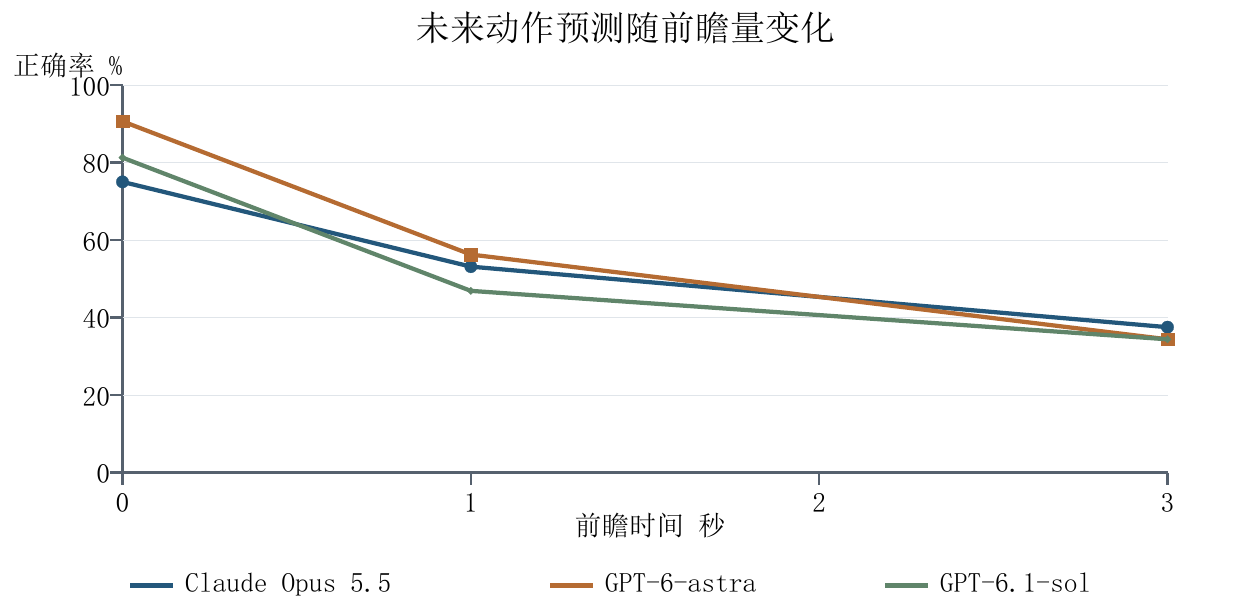
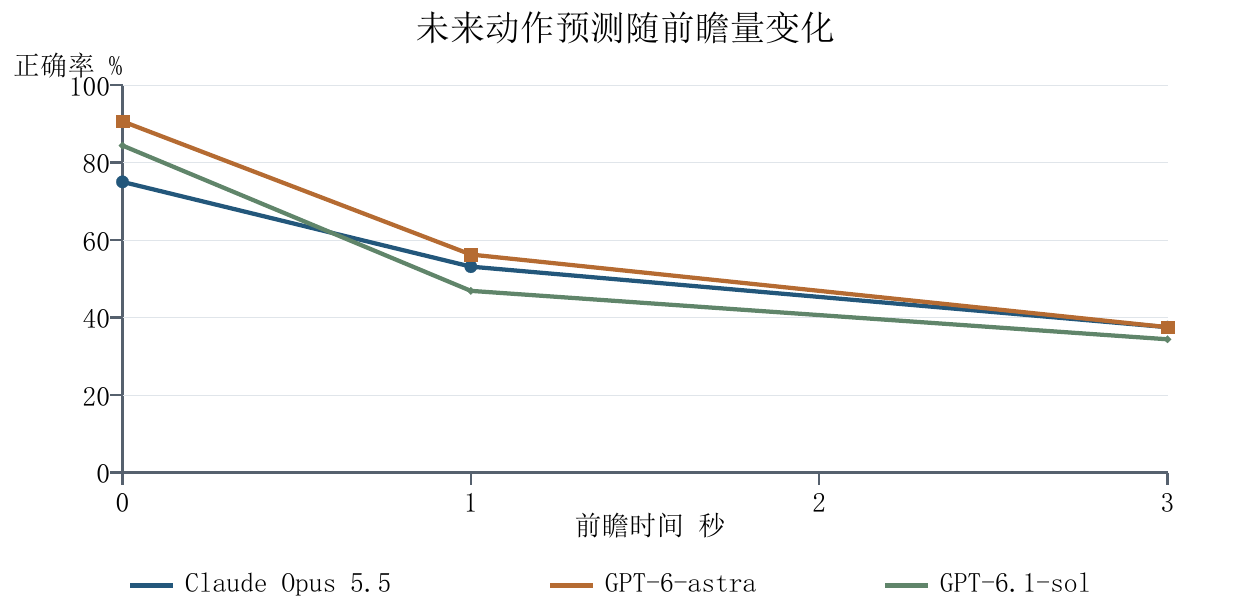
Fill the GPT interface-failure gaps in the main results
On 2026-10-20 the 290 GPT samples that failed with interface errors on
2026-10-18 were re-requested once each under a protocol frozen before the
first request; the 27 that were refused again with HTTP 429 were filled in a
second round. The seven-model table now shows the after-rerun numbers marked
with a dagger, with the 2026-10-18 numbers in a footnote and the caveats
below it. The forecast-horizon table and chart are redrawn, and the semantic
re-score is labelled as based on the 2026-10-18 answers.

Changed region(s): [[0.4056, 0.4016, 0.9672, 0.5561], [0.0936, 0.2163, 0.2496, 0.3707], [0.2496, 0.3707, 0.3744, 0.4634]]

diff --git a/docs/experiments.md b/docs/experiments.md
@@ -1,8 +1,8 @@
 # Satori 复现与模型评测实验简报
 
-日期：2026年10月18日（10月20日补充输入说明、问答示例和语义重评分）
+日期：2026年10月18日（10月20日补充输入说明、问答示例和语义重评分，并补跑了三个 GPT 模型因接口错误缺失的题）
 
-本阶段围绕“理解用户所处环境、正在做什么、下一步可能做什么”开展实验。已搭建 Satori 方法原型并接入 Unity，完成七个模型在公开第一视角数据上的对比。当前结果是：**高层任务目标识别效果较好，未来动作预测还有明显下降；任务问答按意思评分最高约37%，涉及多人互动和反事实推理的问题仍然很弱。**
+本阶段围绕“理解用户所处环境、正在做什么、下一步可能做什么”开展实验。已搭建 Satori 方法原型并接入 Unity，完成七个模型在公开第一视角数据上的对比。当前结果是：**高层任务目标识别效果较好，未来动作预测还有明显下降；在已做语义重评分的五个模型中，任务问答按意思评分最高约37%，涉及多人互动和反事实推理的问题仍然很弱。**
 
 ## 1. 跑了哪些实验
 
@@ -22,35 +22,53 @@
 
 | 模型 | 目标识别，28题 | 动作预测，96题 | 任务问答，200题（字面匹配） |
 |---|---:|---:|---:|
-| Claude Opus 5.5 | **89.29%（25/28）** | 55.21%（53/96） | **22.50%（45/200）** |
-| GPT-6-astra | 67.86%（19/28） | **60.42%（58/96）** | 19.50%（39/200） |
-| GPT-6.1-sol | **89.29%（25/28）** | 54.17%（52/96） | 17.50%（35/200） |
-| GPT-5.6-sol | 67.86%（19/28） | 13.54%（13/96）* | 全部接口失败，无法评价 |
+| Claude Opus 5.5 | 89.29%（25/28） | 55.21%（53/96） | 22.50%（45/200） |
+| GPT-6-astra | **92.86%（26/28）**† | **61.46%（59/96）**† | 19.50%（39/200）† |
+| GPT-6.1-sol | 89.29%（25/28） | 55.21%（53/96）† | 21.00%（42/200）† |
+| GPT-5.6-sol | 78.57%（22/28）† | 33.33%（32/96）† | **26.00%（52/200）**† |
 | Mage-VL | 53.57%（15/28） | 6.25%（6/96） | 2.00%（4/200） |
 | VideoChat3-4B | 32.14%（9/28） | 5.21%（5/96） | 4.00%（8/200） |
 | Dispider | 未获得合格输出 | 未获得合格输出 | 未获得合格输出 |
 
-*GPT-5.6-sol动作预测中有53次调用失败，问答200题全部接口失败，其低分不能直接解释为模型能力弱。Dispider的输出未满足本轮评分格式要求，不能解释为视觉能力为零。Mage-VL和VideoChat3-4B也受到接口或输出格式问题影响。*
+*†含10月20日补跑的缺失题。补跑前（10月18日）的成绩：*
 
-模型名称按简称展示。实际主实验中 Claude 使用 high，GPT 未显式指定推理档位；因此这里比较的是各模型在当前接入配置下的表现，未完全控制内部推理预算。GPT 和 Claude 都经第三方接口或通道调用，模型名沿用其别名，底层权重未独立核验。部分 GPT 结果因限流分批续跑，只补跑从未尝试过的题目，已尝试的结果原样保留。Claude 的原始采集脚本把同一轮回复中的思考和正文分段误判为不合格，标为失败的有309条（目标识别15条、动作预测95条、问答199条）；表中 Claude 结果是对保存的原始返回统一重新解析得到的，拼接后的最终文本须与原始最终结果逐字一致，没有新增模型请求，也没有修改答案。
+- *GPT-6-astra：67.86%（19/28）、60.42%（58/96）、19.50%（39/200）；*
+- *GPT-6.1-sol：54.17%（52/96）、17.50%（35/200），目标识别没有缺题；*
+- *GPT-5.6-sol：67.86%（19/28）、13.54%（13/96），问答200题全部接口失败。*
+
+*Dispider 的输出未满足本轮评分格式要求，不能解释为视觉能力为零。Mage-VL 和 VideoChat3-4B 也受到接口或输出格式问题影响。*
+
+**10月20日补跑。** 10月18日这三个 GPT 模型共有290题因接口错误（HTTP 429、502、503 和连接失败）没有拿到回答，当时按错误计。10月20日网关恢复后，按事先冻结的协议，把这些题用与原来完全相同的请求重新问了一遍，一次只发一个请求。第一轮有27题再次被网关以并发超限拒绝，第二轮补齐。现在这三个模型的每一格都没有失败题；290题中有3题是模型弃答，按错误计。
+
+使用这些数字时需要注意：
+
+- 补跑比原始请求晚两天，第三方别名背后的模型可能已经变化。成功的题没有重跑，所以带†的格子混合了两个时间点的回答；GPT-5.6-sol 问答的200题则全部是10月20日的回答。
+- 补跑的题不是随机抽的，失败集中在网关拥堵的时段。例如 GPT-6-astra 目标识别补回的7题全部答对，GPT-5.6-sol 问答第二轮补的18题全是是非题。
+- GPT-5.6-sol 问答的26.00%比 Claude 的22.50%只多7题。两者的采集时间和推理档位都不同，补跑的新答案也没有做语义重评分（Claude 的语义分是36.50%），所以不宜据此排序。
+
+补跑的完整记录（逐题请求记录、首次请求前冻结的协议和核对结果）保存在本地实验工程中；其中含数据集题目原文，按本仓库不分发数据集的约定未上传。
+
+模型名称按简称展示。实际主实验中 Claude 使用 high，GPT 未显式指定推理档位；因此这里比较的是各模型在当前接入配置下的表现，未完全控制内部推理预算。GPT 和 Claude 都经第三方接口或通道调用，模型名沿用其别名，底层权重未独立核验。10月18日部分 GPT 结果因限流分批续跑，当时只续跑从未尝试过的题目；仍因接口错误失败的题在10月20日补跑（见上文）。Claude 的原始采集脚本把同一轮回复中的思考和正文分段误判为不合格，标为失败的有309条（目标识别15条、动作预测95条、问答199条）；表中 Claude 结果是对保存的原始返回统一重新解析得到的，拼接后的最终文本须与原始最终结果逐字一致，没有新增模型请求，也没有修改答案。
 
 ## 3. 效果说明
 
-**任务目标识别较好。** Claude和GPT-6.1-sol均答对25/28个视频，达到89.29%。不过这里使用了覆盖完整视频的4帧，主要说明模型能概括整段任务，尚不能证明任务刚开始时就能识别目标。
+**任务目标识别较好。** GPT-6-astra 答对26/28个视频（92.86%，含补跑），Claude 和 GPT-6.1-sol 均答对25/28（89.29%）。不过这里使用了覆盖完整视频的4帧，主要说明模型能概括整段任务，尚不能证明任务刚开始时就能识别目标。
 
 **预测距离越远，准确率越低。** 三个表现较好的模型在不同预测时距下的结果如下，每一格均为答对题数/32：
 
 | 模型 | 0秒 | 提前1秒 | 提前3秒 |
 |---|---:|---:|---:|
 | Claude Opus 5.5 | 24/32 | 17/32 | 12/32 |
-| GPT-6-astra | 29/32 | 18/32 | 11/32 |
-| GPT-6.1-sol | 26/32 | 15/32 | 11/32 |
+| GPT-6-astra | 29/32 | 18/32 | 12/32 |
+| GPT-6.1-sol | 27/32 | 15/32 | 11/32 |
+
+GPT 两行含10月20日补跑：GPT-6-astra 提前3秒从11/32变为12/32，GPT-6.1-sol 0秒从26/32变为27/32。图中只在0、1、3秒有测量点，连线不代表2秒的结果；3秒处 Claude 和 GPT-6-astra 都是12/32，两点重合。
 
 ![三个API模型的动作预测准确率随前瞻时间下降](images/forecast-horizon.png)
 
 0秒条件的最后观察帧也早于目标动作起点。结果表明，判断紧接当前观察的动作相对容易，提前更久判断用户意图仍有困难。
 
-**任务问答按字面评分明显偏低，真正的短板在多人互动和反事实推理。** 按字面匹配，最高分为Claude的22.50%，而所有题固定回答“no”的简单基线就有18%；Claude在68道是非题中答对43题，在132道查询题中仅答对2题。逐题检查发现，查询题的标准答案使用数据集内部标签词，例如 `bottle-water`、`watermelon1`、`poweredness`，意思正确的自由作答也会被判错。下面是一道真实题目（引自 EgoTaskQA 公开数据）：
+**任务问答按字面评分明显偏低，真正的短板在多人互动和反事实推理。** 按字面匹配，Claude 为22.50%（GPT-5.6-sol 补跑后为26.00%，见第2节说明），而所有题固定回答“no”的简单基线就有18%；Claude在68道是非题中答对43题，在132道查询题中仅答对2题。逐题检查发现，查询题的标准答案使用数据集内部标签词，例如 `bottle-water`、`watermelon1`、`poweredness`，意思正确的自由作答也会被判错。下面是一道真实题目（引自 EgoTaskQA 公开数据）：
 
 | 项目 | 内容 |
 |---|---|
@@ -71,6 +89,8 @@
 | VideoChat3-4B | 4.00%（8/200） | 6.00%（12/200） | 8.00%（16/200） |
 
 表中语义分数只用三个判分代理的多数票。主控 AI 曾对13项给出裁决，但主控就是被评模型之一 Claude Opus 5.5，存在利益冲突（其中4项“语义等价→部分正确”的降级都落在 GPT 的答案上），所以不计入主结果；若计入，GPT-6-astra 为29.50%、GPT-6.1-sol 为26.50%，排名不变。
+
+语义重评分基于10月18日的原始回答，没有纳入10月20日补跑得到的新答案。因此本表中 GPT-6.1-sol 的字面匹配仍是补跑前的17.50%，GPT-5.6-sol 不在表中。
 
 提升全部来自查询题，例如Claude从2/132升到30/132；是非题不受影响。按意思评分后，数据集归为多人互动类的13道题（多数问“另一个人在做什么”），三个API模型仍全部答错；40道反事实题中，Claude也只从11题升到12题。这两类才是当前真正的短板。四帧观察可能缺少关键证据，但还不能把低分全部归因于帧数。
 

diff --git a/README.md b/README.md
@@ -22,7 +22,7 @@
 
 ## 实验与结果
 
-截至2026年10月18日，已完成以下公开数据实验和流程演示；10月20日补充了任务问答的语义重评分。总体上，模型对高层任务目标的识别较好，但较远未来的动作预测，以及涉及多人互动和反事实推理的问答仍有明显不足。
+截至2026年10月20日，已完成以下公开数据实验和流程演示；10月20日补跑了三个 GPT 模型因接口错误缺失的题（表中以†标出），并补充了任务问答的语义重评分。总体上，模型对高层任务目标的识别较好，但较远未来的动作预测，以及涉及多人互动和反事实推理的问答仍有明显不足。
 
 ### 跑了哪些实验
 
@@ -40,35 +40,51 @@
 
 | 模型 | 目标识别，28题 | 动作预测，96题 | 任务问答，200题（字面匹配） |
 |---|---:|---:|---:|
-| Claude Opus 5.5 | **89.29%（25/28）** | 55.21%（53/96） | **22.50%（45/200）** |
-| GPT-6-astra | 67.86%（19/28） | **60.42%（58/96）** | 19.50%（39/200） |
-| GPT-6.1-sol | **89.29%（25/28）** | 54.17%（52/96） | 17.50%（35/200） |
-| GPT-5.6-sol | 67.86%（19/28） | 13.54%（13/96）* | 全部接口失败，无法评价 |
+| Claude Opus 5.5 | 89.29%（25/28） | 55.21%（53/96） | 22.50%（45/200） |
+| GPT-6-astra | **92.86%（26/28）**† | **61.46%（59/96）**† | 19.50%（39/200）† |
+| GPT-6.1-sol | 89.29%（25/28） | 55.21%（53/96）† | 21.00%（42/200）† |
+| GPT-5.6-sol | 78.57%（22/28）† | 33.33%（32/96）† | **26.00%（52/200）**† |
 | Mage-VL | 53.57%（15/28） | 6.25%（6/96） | 2.00%（4/200） |
 | VideoChat3-4B | 32.14%（9/28） | 5.21%（5/96） | 4.00%（8/200） |
 | Dispider | 未获得合格输出 | 未获得合格输出 | 未获得合格输出 |
 
-*GPT-5.6-sol动作预测有53次调用失败，问答200题全部接口失败；Dispider输出未满足本轮评分格式要求。这些结果不能直接解释为模型能力弱或视觉能力为零。Mage-VL和VideoChat3-4B也受到接口或输出格式问题影响。*
+*†含10月20日补跑的缺失题。补跑前（10月18日）的成绩：*
+
+- *GPT-6-astra：19/28、58/96、39/200；*
+- *GPT-6.1-sol：52/96、35/200，目标识别没有缺题；*
+- *GPT-5.6-sol：19/28、13/96，问答200题全部接口失败。*
+
+*Dispider 输出未满足本轮评分格式要求，不能解释为视觉能力为零；Mage-VL 和 VideoChat3-4B 也受到接口或输出格式问题影响。*
+
+**10月20日补跑。** 10月18日这三个 GPT 模型共有290题因接口错误（HTTP 429、502、503 和连接失败）没有拿到回答，当时按错误计。10月20日按事先冻结的协议，用与原来完全相同的请求把这些题重新问了一遍，一次只发一个请求。第一轮有27题再次被并发超限拒绝，第二轮补齐。现在每一格都没有失败题；其中3题是模型弃答，按错误计。
+
+使用这些数字时需要注意：
+
+- 补跑晚了两天，第三方别名背后的模型可能已经变化。带†的格子混合了两个时间点的回答，只有 GPT-5.6-sol 问答的200题全部是10月20日的回答。
+- 补跑的题由当时的接口错误决定，不是随机抽的。例如 GPT-6-astra 目标识别补回的7题全部答对。
+- GPT-5.6-sol 问答比 Claude 只多7题。两者的采集时间和推理档位都不同，新答案也没有做语义重评分，所以不宜据此排序。
 
 问答正式分数按统一大小写、标点、英文冠词和空白后的答案匹配率计算；另做了一次语义重评分作为补充，见下文“结果说明”。Claude实际使用high，GPT未显式指定推理档位；结果反映当前接入配置下的表现，内部推理预算未完全统一。GPT和Claude都经第三方接口或通道调用，模型名沿用其别名，底层权重未独立核验。Claude的结果来自对原始返回的离线重新解析（原采集脚本误判了309个合法回答），详见实验简报。
 
 ### 结果说明
 
-**目标识别较好，但不代表任务早期就能识别意图。** Claude与GPT-6.1-sol均答对25/28个视频。这里的4帧覆盖完整视频，因此主要验证对整段任务的概括能力。
+**目标识别较好，但不代表任务早期就能识别意图。** GPT-6-astra 答对26/28个视频（含补跑），Claude 与 GPT-6.1-sol 均答对25/28。这里的4帧覆盖完整视频，因此主要验证对整段任务的概括能力。
 
 **提前越久预测动作，准确率越低。** 三条表现较好的API路由结果如下，每个时距均为答对题数/32；不同列共享同一组目标事件。
 
 | 模型 | 0秒 | 提前1秒 | 提前3秒 |
 |---|---:|---:|---:|
 | Claude Opus 5.5 | 24/32 | 17/32 | 12/32 |
-| GPT-6-astra | 29/32 | 18/32 | 11/32 |
-| GPT-6.1-sol | 26/32 | 15/32 | 11/32 |
+| GPT-6-astra | 29/32 | 18/32 | 12/32 |
+| GPT-6.1-sol | 27/32 | 15/32 | 11/32 |
+
+GPT 两行含10月20日补跑：GPT-6-astra 提前3秒从11/32变为12/32，GPT-6.1-sol 0秒从26/32变为27/32。
 
 0秒条件的最后观察帧也早于目标动作起点。结果提示，紧接当前观察的动作判断与较远未来的意图预测需要分别评价。
 
-**任务问答按字面评分明显偏低，真正的短板在多人互动和反事实推理。** 按字面匹配，问答最高22.50%，固定回答“no”的简单基线为18%；Claude在132道查询题中仅答对2题。逐题检查发现，查询题的标准答案使用数据集内部标签词（如 `bottle-water`、`watermelon1`、`poweredness`、`Turn off TV with remote`），意思正确的自由作答也会被判错。补充的语义重评分结果如下：
+**任务问答按字面评分明显偏低，真正的短板在多人互动和反事实推理。** 按字面匹配，Claude 为22.50%（GPT-5.6-sol 补跑后为26.00%，见上文说明），固定回答“no”的简单基线为18%；Claude在132道查询题中仅答对2题。逐题检查发现，查询题的标准答案使用数据集内部标签词（如 `bottle-water`、`watermelon1`、`poweredness`、`Turn off TV with remote`），意思正确的自由作答也会被判错。补充的语义重评分结果如下：
 
-| 模型 | 字面匹配（正式） | 语义等价 | 含部分正确 |
+| 模型 | 字面匹配（10月18日回答） | 语义等价 | 含部分正确 |
 |---|---:|---:|---:|
 | Claude Opus 5.5 | 22.50%（45/200） | **36.50%（73/200）** | 39.50%（79/200） |
 | GPT-6-astra | 19.50%（39/200） | 31.00%（62/200） | 33.00%（66/200） |
@@ -76,7 +92,7 @@
 | Mage-VL | 2.00%（4/200） | 4.00%（8/200） | 7.50%（15/200） |
 | VideoChat3-4B | 4.00%（8/200） | 6.00%（12/200） | 8.00%（16/200） |
 
-表中语义分数只用三个判分代理的多数票；主控AI（Claude Opus 5.5，本身也是被评模型）曾对13项给出裁决，其中4项降级都落在GPT的答案上，因利益冲突不计入，若计入GPT-6-astra为29.50%、GPT-6.1-sol为26.50%，排名不变。提升全部来自查询题（Claude从2/132升到30/132），是非题不受影响。按意思评分后，数据集归为多人互动类的13道题，三个API模型仍全部答错；40道反事实题中，Claude也只从11题升到12题。判分由三个独立的Claude Haiku 5.5代理盲评，只比较答案文字的含义，不看视频。真实答案中三票完全一致的占92%（Fleiss κ 0.86），40个故意配错的对照答案无一被判为正确。这是看到结果后追加的补充分析，方法、复核与局限见 **[EgoTaskQA语义重评分](docs/egotaskqa-semantic-rescore.md)**。四帧观察可能缺少关键证据，但当前实验不能将低分全部归因于帧数。
+表中语义分数只用三个判分代理的多数票；主控AI（Claude Opus 5.5，本身也是被评模型）曾对13项给出裁决，其中4项降级都落在GPT的答案上，因利益冲突不计入，若计入GPT-6-astra为29.50%、GPT-6.1-sol为26.50%，排名不变。提升全部来自查询题（Claude从2/132升到30/132），是非题不受影响。按意思评分后，数据集归为多人互动类的13道题，三个API模型仍全部答错；40道反事实题中，Claude也只从11题升到12题。判分由三个独立的Claude Haiku 5.5代理盲评，只比较答案文字的含义，不看视频。真实答案中三票完全一致的占92%（Fleiss κ 0.86），40个故意配错的对照答案无一被判为正确。这是看到结果后追加的补充分析，方法、复核与局限见 **[EgoTaskQA语义重评分](docs/egotaskqa-semantic-rescore.md)**。四帧观察可能缺少关键证据，但当前实验不能将低分全部归因于帧数。语义重评分基于10月18日的原始回答，没有纳入10月20日补跑的新答案，所以表中 GPT-6.1-sol 的字面匹配仍是补跑前的17.50%，GPT-5.6-sol 不在表中。
 
 ### Charades-Ego环境与动作识别
 

diff --git a/docs/images/README.md b/docs/images/README.md
@@ -6,7 +6,7 @@
 |---|---|---|
 | `unity-task-replay.png` | Satori任务状态、当前观察、文字指导、完成状态和回放时间轴 | 真实模型记录的离线回放；6个采样时刻中的第3帧，没有用户完成确认 |
 | `unity-mage-context.png` | Mage-VL八帧输入、环境与行为问答、原始JSON | 同一视频5.5至9.0秒窗口的一次真实请求；端到端16.68秒，无IMU |
-| `forecast-horizon.png` | 三个API模型在0、1、3秒前瞻下的动作预测准确率 | 七模型主实验的GTEA动作预测，每个点为答对题数/32 |
+| `forecast-horizon.png` | 三个API模型在0、1、3秒前瞻下的动作预测准确率 | 七模型主实验的GTEA动作预测，每个点为答对题数/32；两条 GPT 曲线含10月20日补跑；只在0、1、3秒有测量点，3秒处 Claude 与 GPT-6-astra 重合（均为12/32） |
 
 ## 视频素材来源
 
